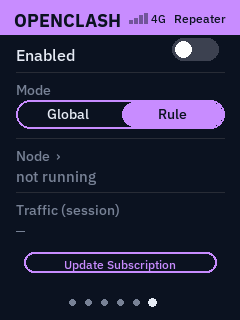
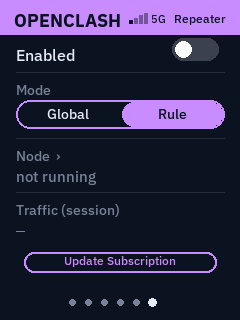
Fix vertical centering of the Currency/OpenClash update buttons' text
centered_text() only centers horizontally and uses a hand-picked y
offset -- fine for single lines drawn against a fixed baseline, but it
left "Update Now" and "Update Subscription" visibly off-center inside
their pill buttons. New centered_text_box() centers on both axes using
the font's actual glyph bbox against the button's rect.

Changed region(s): [[0.2625, 0.7812, 0.7292, 0.8438], [0.6125, 0.0312, 0.6708, 0.0625], [0.525, 0.0625, 0.5542, 0.0938]]

diff --git a/src/dashboard.py b/src/dashboard.py
@@ -1375,6 +1375,18 @@ def centered_text(d, cx, y, text, f, fill):
     d.text((cx - tw / 2, y), text, font=f, fill=fill)
 
 
+def centered_text_box(d, x0, y0, x1, y1, text, f, fill):
+    """Centers on both axes within [x0,y0,x1,y1] -- unlike centered_text
+    (horizontal-only, `y` is a hand-picked top offset), this accounts for
+    the font's actual glyph bbox so it lands in the true middle of a
+    button regardless of font metrics or box height."""
+    bbox = d.textbbox((0, 0), text, font=f)
+    tw, th = bbox[2] - bbox[0], bbox[3] - bbox[1]
+    tx = (x0 + x1) / 2 - tw / 2
+    ty = y0 + ((y1 - y0) - th) / 2 - bbox[1]
+    d.text((tx, ty), text, font=f, fill=fill)
+
+
 def truncate_to_width(d, text, f, max_w):
     if d.textbbox((0, 0), text, font=f)[2] <= max_w:
         return text
@@ -1550,7 +1562,7 @@ def panel_fx(cfg, fx, fx_range, conn_type=None, cell_signal=None):
 
     bx0, by0, bx1, by1 = FX_BUTTON
     d.rounded_rectangle([bx0, by0, bx1, by1], radius=(by1 - by0) / 2, outline=ACCENT["fx"], width=2)
-    centered_text(d, (bx0 + bx1) / 2, by0 + 4, "Update Now", font("default_medium", 12), ACCENT["fx"])
+    centered_text_box(d, bx0, by0, bx1, by1, "Update Now", font("default_medium", 12), ACCENT["fx"])
     draw_page_dots(d, 4)
     return img
 
@@ -1660,7 +1672,7 @@ def panel_openclash(oc, traf, conn_type=None, cell_signal=None):
 
     bx0, by0, bx1, by1 = OC_UPDATE_BUTTON
     d.rounded_rectangle([bx0, by0, bx1, by1], radius=(by1 - by0) / 2, outline=ACCENT["openclash"], width=2)
-    centered_text(d, (bx0 + bx1) / 2, by0 + 4, "Update Subscription", font("default_medium", 12), ACCENT["openclash"])
+    centered_text_box(d, bx0, by0, bx1, by1, "Update Subscription", font("default_medium", 12), ACCENT["openclash"])
     draw_page_dots(d, 5)
     return img
 
